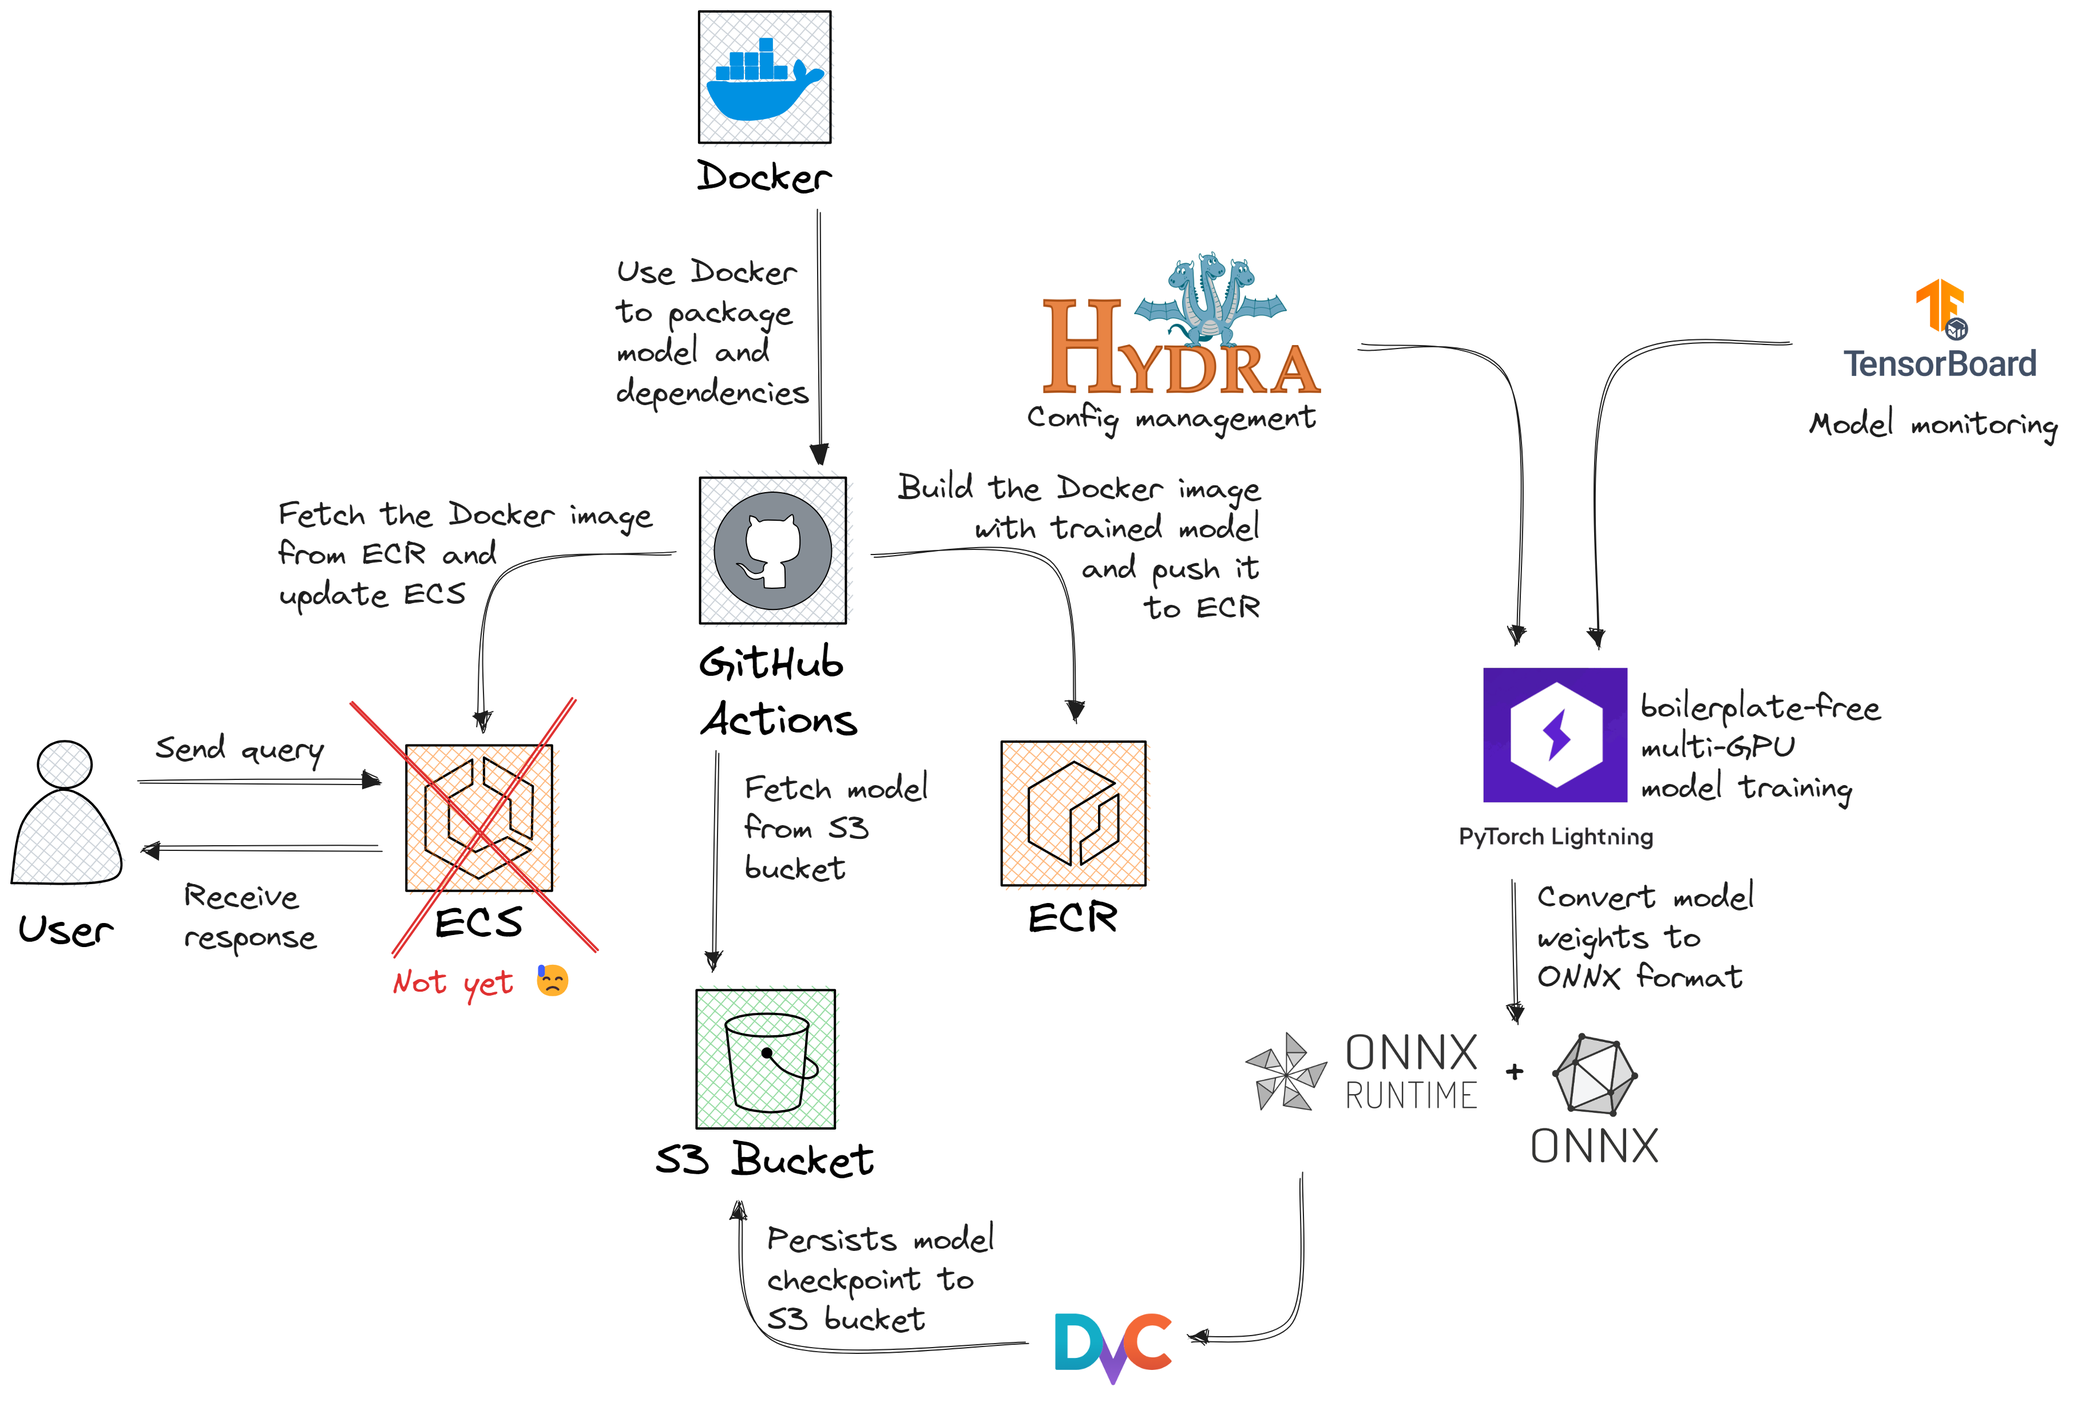
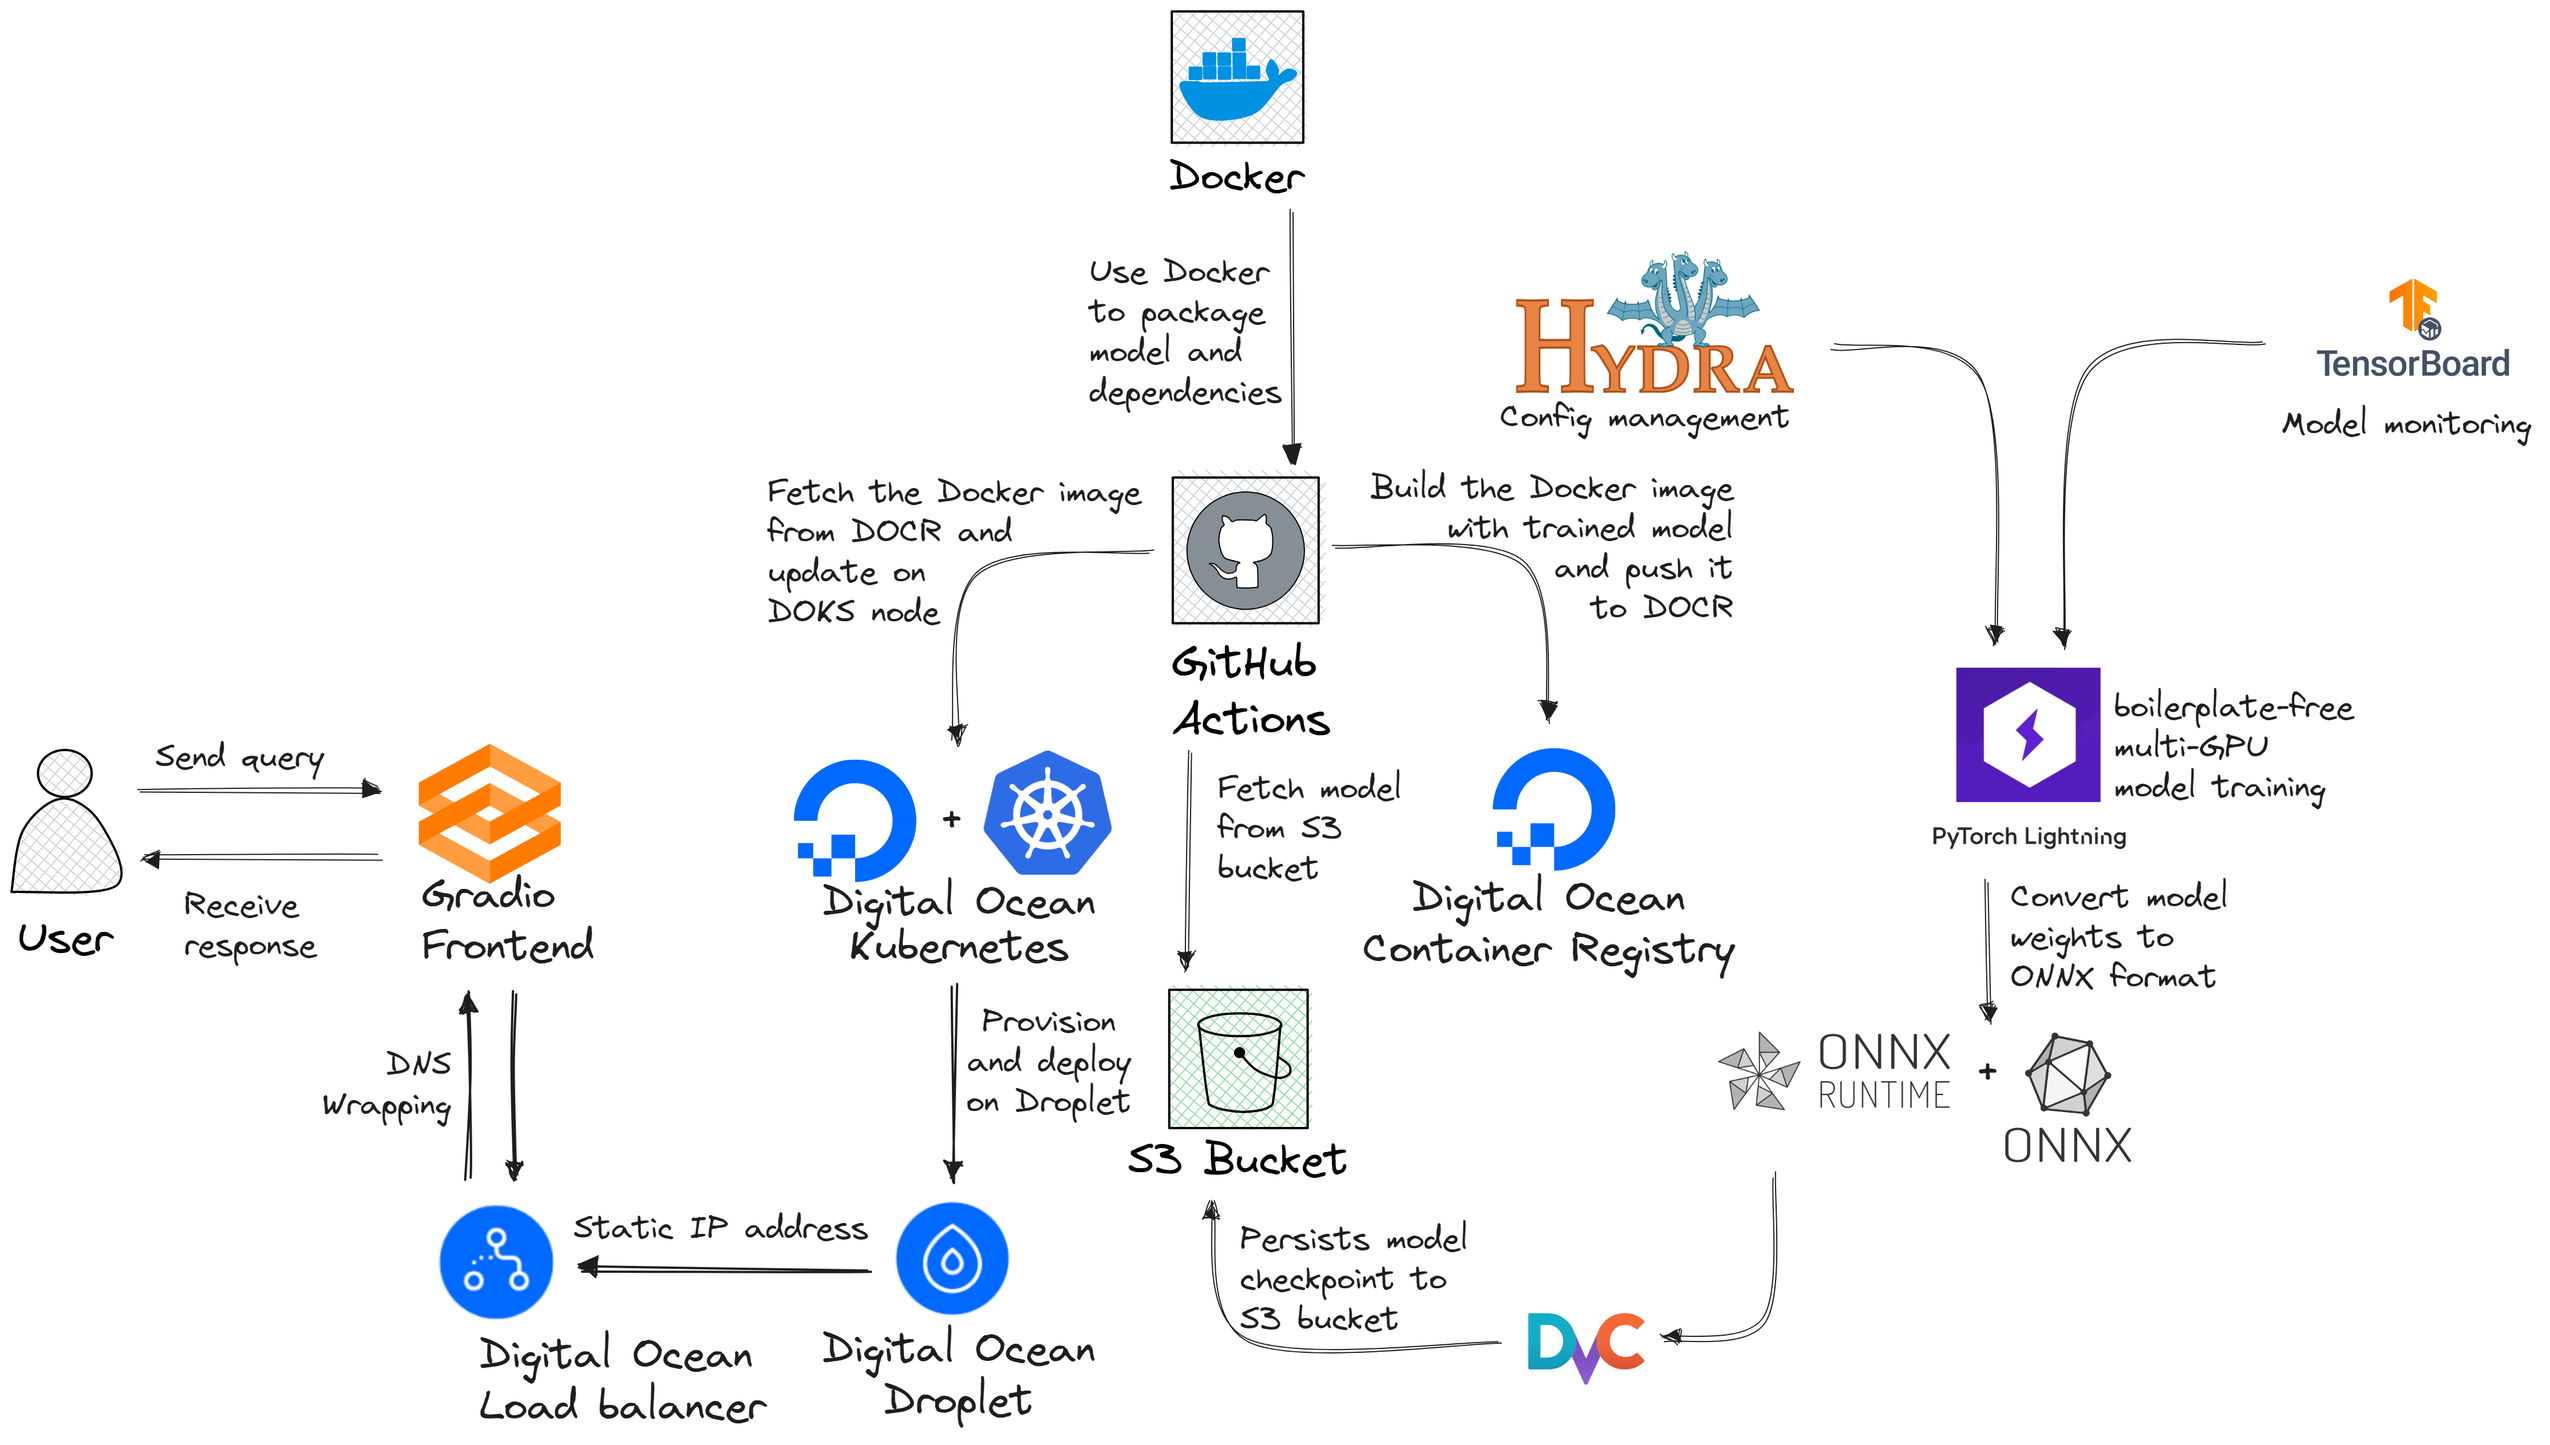
changed README.md

diff --git a/README.md b/README.md
@@ -1,12 +1,14 @@
+**Update: The app is live! Head to [https://huggingface.co/spaces/HangenYuu/SeeFood102Gradio](https://huggingface.co/spaces/HangenYuu/SeeFood102Gradio) to try out.**
+
 # SeeFood102 (= SeeFood101 + MLOps)
 
 This is an iteration on my previous project [SeeFood101](https://github.com/HangenYuu/SeeFood101). In SeeFood101, I just got familiar with model training, working mostly out of Jupyter Notebook, a folder storing helper function, a Tensorboard session for training monitoring, and simple demo with Gradio [here](https://huggingface.co/spaces/HangenYuu/SeeFood101v1). For model training, this is enough.
 
 However, machine learning does not stop at model training. Usually, a model is trained to solve a business problem, and to serve this end, the model needs *deploying* to be accessible and *monitoring* to make sure that is works properly. This is called MLOps, and it's a totally different breed from model training.
 
-This project is my attempt at learning the ropes of MLOps.
+This project is my attempt at learning the ropes of MLOps. The demo is nothing impressive on its own, the interesting thing is the  
 
-Current progress visualized
+My current progress visualized
 
 ![Current progress visualized - a system architecture diagram drawn with Excalidraw, showing User, Docker, ECS, ECR, S3, GitHub Actions, Hydra, TensorBoard, PyTorch Lightning, ONNX, ONNX Runtime, and DVC](assets/SeeFood102diagram.png)
 
@@ -18,16 +20,11 @@ Current progress visualized
 - ✅ Convert the PyTorch Lightning checkpoint to ONNX weights and use ONNX Runtime for inference
 - ✅ Create the backend with FastAPI and a minimal HTML/Javascript frontend, allowing users to upload image and receive top-5 categories + probabilities
 - ✅ Containerize the backend with Docker
-- ✅ Store the Docker image in AWS Elastic Container Registry (ECR)
+- ✅ Store the Docker image in Digital Ocean Container Registry (DOCR)
 - ✅ Create a GitHub action to automatically construct the Docker image and push to ECR on pushing code to the GitHub repository.
-- ❌ Deployment - currently encountering issues.
-  - ❌ Intended options: Deploy the Docker image on AWS Elastic Container Service (ECS).
-    - Reason: ECS requires a cluster, task, and service. The cluster was created successfully, but the service creation was failed repeatedly.
-    - Possible remedy 1: Switch to a Lambda function. This does not allow for environment specification nor fastAPI easyness since I have to use Lambda function format. Because of issues with AWS based Docker image (SQLite 2 (really?) is installed while SQLite 3.8.3 at least is required for DVC) and with installing Lambda interface for external image, I abandoned this once I realized how big a time sink it is.
-    - Possible remedy 2: Switch to a different vendor (Digital Ocean, GCP, etc.) (requires more setup and getting started with the platform 😭 and possibly 💸). **I actually tried switching to Digital Ocean**. Now the workflow is SSH into a Droplet, build and run the Docker image within the Droplet every time a push happends. However, it still fails repeatedly ??? This also gives me an idea for the third option.
-    - Possible remedy 3: Use an EC2 instance. This is inherently unscalable as using a Digital Ocean Droplet above. However, it is straightforward. Big problem though: is Docker installed within EC2?
-- ❌ Add to the GitHub action to automatically deploy the Docker image after construction
-- ❌ Setup monitoring with AWS CloudWatch logs, Elastic Search Cluster (to stream the logs), and a dashboard service (Kibana, Grafana, EvidentlyAI, etc.)
+- ✅ Deployment on Digital Ocean with Kubernetes (DOKS).
+- ✅ Edit the GitHub action to automatically deploy the Docker image after construction.
+- ❓ Setup monitoring - each cloud provider has their own monitoring process. Mature ones such as AWS have more tools developed on top of this (Kibana, Grafana, etc.). For Digital Ocean, it seems that the platform has built-in simple graphing for the Droplets and email alerts. I can also use add-ons. However, most options required me to integrate in the Droplet in the first place, which I have not (uh oh). 
 
 For people looking to follow along the repo:
 
@@ -37,11 +34,12 @@ conda create -n seefood102 python=3.10
 conda activate seefood102
 pip install -r requirements.txt
 ```
+
 ## Model training
 I chose a pretrained LeVit ([paper](https://arxiv.org/pdf/2104.01136.pdf), [code](https://github.com/facebookresearch/LeViT), [weight](https://huggingface.co/timm/levit_256.fb_dist_in1k)) and then fine-tuned with all parameters unfrozen on the Food101 Dataset. The training code was written with PyTorch Lightning to reduce the amount of boilerplate and utilize the 2 GPUs I was given. I used Tensorboard to monitor the training. The training can be viewed [here](https://tensorboard.dev/experiment/gX8buBf7TJOW8RytJaCA7g/#scalars). At the end, the model achieved ~0.78 F1 and accuracy. After training, you can save your model to `.ckpt` format of PyTorch Lightning to use directly for inference, convert to ONNX format with the `ckpt_to_onnx.py` script before inference with CPU, or save your model directly to ONNX format for inference.
 
 ## Setup DVC
-I used DVC (Data Version Control), a Git-like tool for data, to track the model weight. The setup depends on your choice of cloud storage. I ~~was forced to choose S3 to increase the prospect of getting a job~~ chose AWS S3 for its popularity and security despite the initial effort needed to set things one bucket (which actually was easy compared to other things AWS offers - more on that later). In any case, from [the documentation](https://dvc.org/doc/user-guide/data-management/remote-storage/amazon-s3#custom-authentication), the steps as of July 2023 are:
+I used DVC (Data Version Control), a Git-like tool for data, to track the model weight. The setup depends on your choice of cloud storage. I chose AWS S3 for its popularity and security despite the initial effort needed to set things one bucket (which actually was easy compared to other things AWS offers). In any case, from [the documentation](https://dvc.org/doc/user-guide/data-management/remote-storage/amazon-s3#custom-authentication), the steps as of July 2023 are:
 
 1. Go to **IAM Management Console**.
 2. Create a new user (recommended) with specified permissions. Besides AWS S3, I want to use this User for the task of ECR and ECS, so I also give the User permissions for these services as needed.
@@ -105,9 +103,9 @@ To get started, you need to have a Dockerfile. It is the of how to construct the
 # I build on top of an existing image instead of reinventing the wheel
 FROM continuumio/miniconda3:23.3.1-0
 
-# Step 2: Use `COPY` to copy relevant files to the image
+# Step 2: Use `ADD` to copy relevant files to the image
 # I have a file called `.dockerignore` to list files I don't want copying just like `.gitignore`
-COPY ./ /app
+ADD ./ /app
 
 # Step 3 (Optional): Declare the working directory in the image with `WORKDIR`.
 # Because I copy the files to `/app`, I switch to `/app`.
@@ -185,9 +183,21 @@ After uploading and submitting the image, you should see a dictionary of top-5 c
 ![](assets/Screenshot%202023-07-31%20181439.png)
 
 ## Obstacles
-> Everything was smooth until deployment.
+> The journey to one application is laid with one thousand bugs.
 
-Indeed. Besides the extra learning (I enjoy this) and the countless hours spent on writing `.yaml` file for the Docker image (I do not hate this), it is smooth sailing until deployment... 
+Indeed. Besides the extra learning (I enjoy this) and the countless hours spent on writing `.yaml` file for the Docker image (I do not hate this), it is smooth sailing until deployment. And then the fun begins. Here are the mistakes that I made along the way.
+
+- ❌ Store the Docker image on AWS ECR. There is some strange interaction between Docker Desktop and ECR ([1](https://stackoverflow.com/questions/60807697/docker-login-error-storing-credentials-the-stub-received-bad-data), [2](https://stackoverflow.com/questions/65896681/exec-docker-credential-desktop-exe-executable-file-not-found-in-path)), and the supposed fixes crashed my own Docker Desktop, leading to reinstallation. I have no trouble doing this with GitHub Actions though, and then on my local computer. Apparently, the bug is fixed with the new release of Docker Desktop.
+- ❌ Deploy the Docker image on AWS Lambda function. Serverless, on-demand, auto-scale, cheap billing, can even be built from Docker image. Sounds great, right? Until you realize you need to use AWS Lambda-based image, which will have compatibility issue for DVC (which requires SQLite 3.8.3+, while the image is stuck in SQLite 2). No big deal, you can use your own image for Lambda after installing `lambdaric`. But I started running into build issue. By this point Lambda has caused me so much headache that I stopped.
+- ❌ Deploy the Docker image on AWS ECR. The steps are straightforward - cluster, task, service, then deploy the container on top of this. But the container starts failing repeatedly. And it seemed that despite scanning through the options, I missed the logging somewhere? Or does it exist? By this point, I decided that AWS was enough. The service is powerful but overwhelming. It's time to switch to something smaller - Digital Ocean. 
+- ❌ Deploy the Docker image on Digital Ocean Droplet. The workflow is similar to using an EC2 instance, but the catch is that Docker Enginer is installed within the Droplet (yes!). This is inherently unscalable, but straightforward. The GitHub Actions will SSH into the machine and run the container. But again, it failed repeatedly with no log. Fun.
+- ✅ Deploy the Docker image on Digital Ocean Kubernetes Service (DOKS). This is desperation, trying to do hard things because easy things didn't work. But miraculously, there is a log right inside GitHub Actions telling me that `app` cannot be found. Now I know the problem: I defined `WORKDIR` as `/app`, the file to run the server was `app`, and the app name was `app`!. I removed the customized `WORKDIR` command, and voila, work like a charm! 
+
+## Lessons
+- Training is easy. Deployment is hard.
+- Go for prebuilt. Never reinvent the wheel, but know enough or get a person knowing enough to make sure that you are using the right wheel.
+- Understand networking. One problem I face is connecting the container port to the machine port to the load balancer port. And then getting error as the load balancer use HTTP and IP address, while the server with Javascript wants HTTPS, the vendor willing to give me free SSL/TLS certificate wants domain name, and the domain site makes it non-obvious to point the domain to the IP address. In the end I settled for Gradio as Python is more lenient. And that's just 1 node. Imagining having a system that serves a thousand users with multiple nodes linked together.
+- Iterate quickly trumps early optimization. I sat on this project for months, claiming issues such as time, attention, money, or simply paralysis by analysis. And I got this done in 2 weeks. It is always better to get things done first, then improve the product iteratively. The alternative is sitting there scared of everything and doing nothing.
 
 ## `assets` image sources:
 - *Pizza* by Pablo Pacheco via Unsplash: https://unsplash.com/photos/D3Mag4BKqns
@@ -197,3 +207,6 @@ Indeed. Besides the extra learning (I enjoy this) and the countless hours spent 
 - *DVC Logo* from DVC website: https://dvc.org/
 - *PyTorch Lightning Logo* from Phillip Lippe website: https://phlippe.github.io/post/uvadlc-tutorials-lightning/
 - *Hydra Logo* from Facebook Research GitHub repo: https://github.com/facebookresearch/hydra
+- _Digital Ocean Product Icons_ from this presentation: https://do.co/diagram-kit
+- _Digital Ocean Logo_ from Wikimedia
+- _Gradio Logo_ from Wikimedia
